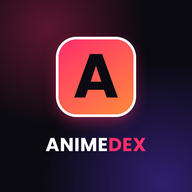
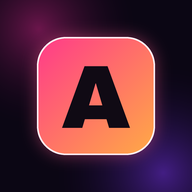
Nouvelle icône de l'application (512 + 192 + iPhone)

diff --git a/index.html b/index.html
@@ -13,9 +13,9 @@
 <meta name="twitter:title" content="ANIMEDEX — Encyclopédie Anime & Manga">
 <meta name="twitter:description" content="Catalogue complet d'animés et mangas : résumés, personnages, OST, quiz, jeu Imposter et Enchères entre amis.">
 <meta name="twitter:image" content="/og-image.jpg">
-<link rel="manifest" href="/manifest.json">
-<link rel="icon" href="/icon-192.png">
-<link rel="apple-touch-icon" href="/icon-192.png">
+<link rel="manifest" href="/manifest.json?v=2">
+<link rel="icon" href="/icon-192-v2.png">
+<link rel="apple-touch-icon" href="/apple-touch-icon-v2.png">
 <script>try{var t=localStorage.getItem('mx-theme');if(!t&&matchMedia('(prefers-color-scheme: dark)').matches)t='dark';if(t==='dark')document.documentElement.setAttribute('data-theme','dark');}catch(e){}</script>
 <meta name="theme-color" content="#0a0a0a">
 <link rel="preconnect" href="https://fonts.googleapis.com">

diff --git a/confidentialite.html b/confidentialite.html
@@ -2,7 +2,7 @@
 <html lang="fr"><head><meta charset="utf-8"><meta name="viewport" content="width=device-width,initial-scale=1">
 <title>Politique de confidentialité – ANIMEDEX</title>
 <meta name="robots" content="index,follow"><link rel="canonical" href="https://animedexfr.fr/confidentialite.html">
-<link rel="icon" href="/icon-192.png">
+<link rel="icon" href="/icon-192-v2.png">
 <style>body{margin:0;background:#0f0f10;color:#eee;font:16px/1.6 system-ui,sans-serif}
 main{max-width:720px;margin:0 auto;padding:32px 20px 64px}a{color:#ff4d2e}
 h1{font-size:28px;margin:8px 0 20px}.sl{font-weight:700;color:#ff4d2e;margin:24px 0 4px;text-transform:uppercase;font-size:13px;letter-spacing:.08em}</style></head>

diff --git a/decouvrir.html b/decouvrir.html
@@ -12,7 +12,7 @@
 <meta property="og:url" content="https://lyrik-anime-manga.vercel.app/decouvrir.html">
 <meta property="og:image" content="https://lyrik-anime-manga.vercel.app/og-image.jpg">
 <meta name="twitter:card" content="summary_large_image">
-<link rel="icon" href="icon-192.png">
+<link rel="icon" href="/icon-192-v2.png">
 <link rel="preconnect" href="https://fonts.googleapis.com">
 <link rel="preconnect" href="https://fonts.gstatic.com" crossorigin>
 <link href="https://fonts.googleapis.com/css2?family=Archivo+Black&family=Inter:wght@400;500;600;700&family=IBM+Plex+Mono:wght@400;500;600&display=swap" rel="stylesheet">

diff --git a/service-worker.js b/service-worker.js
@@ -2,13 +2,13 @@
 // Comme tout le contenu (images, données) est intégré directement dans index.html,
 // mettre index.html en cache suffit à rendre tout le catalogue consultable hors-ligne.
 
-const CACHE_NAME = 'animedex-cache-v1';
+const CACHE_NAME = 'animedex-cache-v2';
 const APP_SHELL = [
   '/',
   '/index.html',
   '/manifest.json',
-  '/icon-192.png',
-  '/icon-512.png'
+  '/icon-192-v2.png',
+  '/icon-512-v2.png'
 ];
 
 self.addEventListener('install', (event) => {

diff --git a/404.html b/404.html
@@ -4,7 +4,7 @@
 <meta charset="UTF-8">
 <meta name="viewport" content="width=device-width, initial-scale=1.0">
 <title>Page introuvable — ANIMEDEX</title>
-<link rel="icon" href="/icon-192.png">
+<link rel="icon" href="/icon-192-v2.png">
 <meta name="theme-color" content="#0a0a0a">
 <link href="https://fonts.googleapis.com/css2?family=Archivo+Black&family=Inter:wght@400;500;600&family=IBM+Plex+Mono:wght@400;500&display=swap" rel="stylesheet">
 <style>
